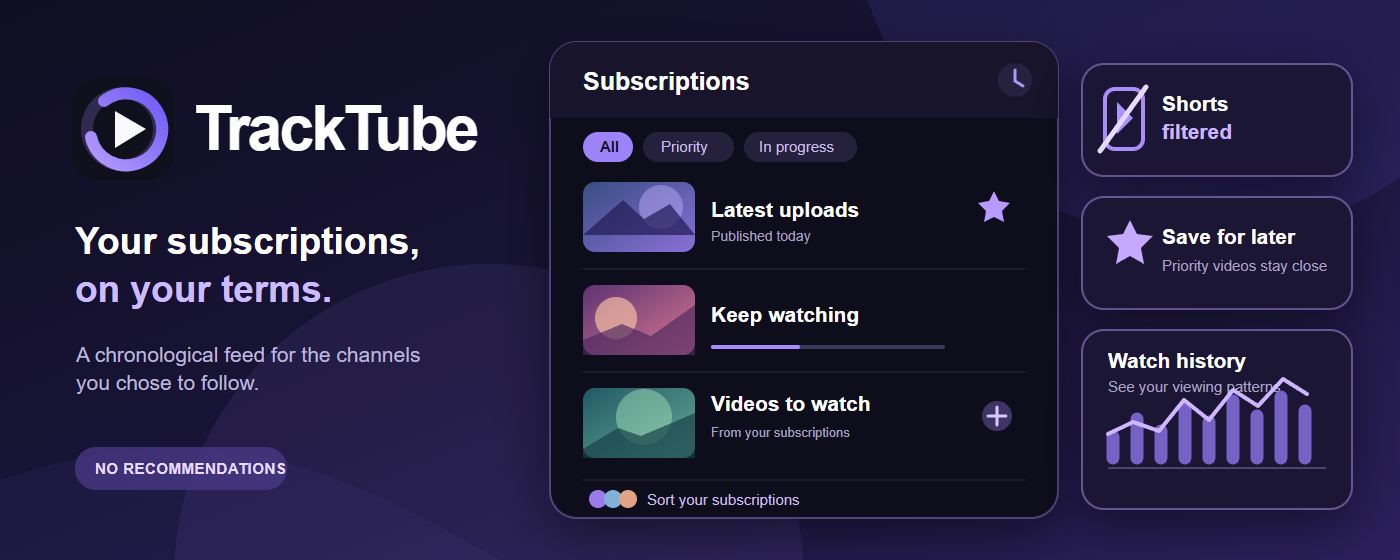
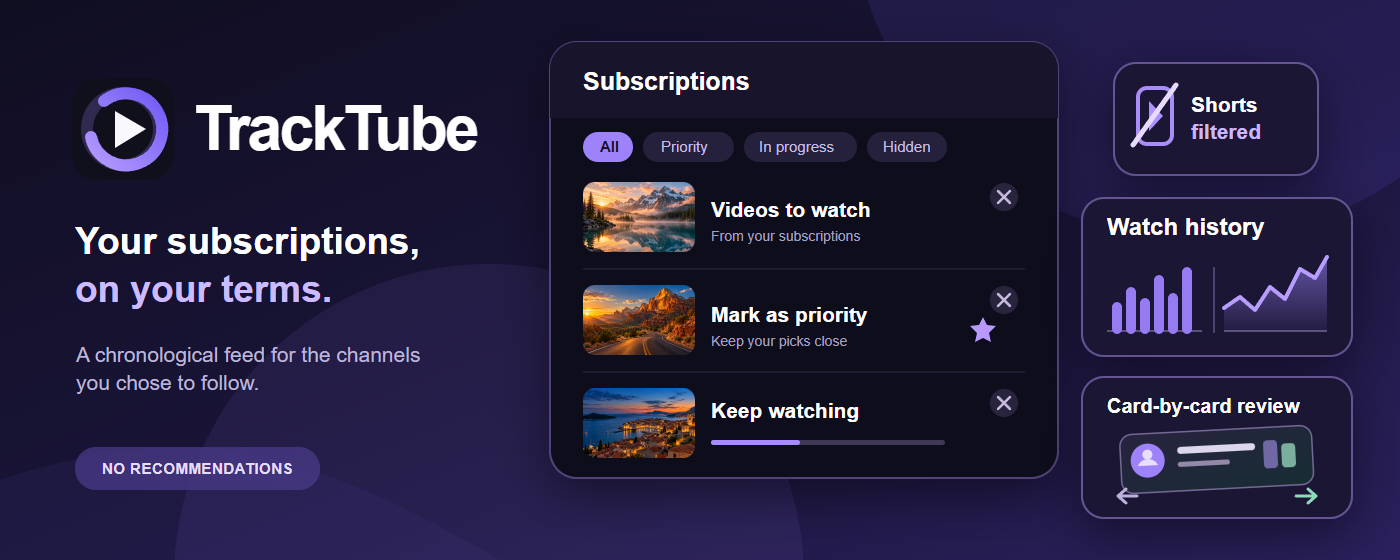
Refine Store marquee and README hero artwork (Codex GPT-6)

diff --git a/README.fr.md b/README.fr.md
@@ -2,6 +2,8 @@
 
 [English](README.md) · **Français**
 
+![TrackTube : fil des abonnements, filtrage des Shorts, historique et tri carte par carte](store-assets/marquee.png)
+
 **Tes abonnements YouTube, dans l'ordre, avec filtrage des Shorts.**
 
 TrackTube remplace la page Abonnements de YouTube par un fil chronologique
@@ -9,8 +11,6 @@ collecté chaîne par chaîne. Il retire les recommandations, filtre les Shorts
 identifiés et permet d'actualiser les publications récentes pour rattraper des
 manques. YouTube peut retarder ou cacher des publications et la classification
 des Shorts ; la couverture n'est donc pas absolue. Tout reste dans ton navigateur.
-
-![Le feed, dans YouTube](screenshots/feed.jpg)
 
 ---
 
@@ -44,6 +44,8 @@ filtré sans que tu l'aies demandé.
 ## Ce que tu obtiens
 
 ### Un feed qui se vide
+
+![Le feed, dans YouTube](screenshots/feed.jpg)
 
 Masque une vidéo et la carte quitte la grille au moment du clic, donc tu peux
 masquer à la chaîne, et un mode sélection le fait par lots. Le masquage de

diff --git a/README.md b/README.md
@@ -2,6 +2,8 @@
 
 **English** · [Français](README.fr.md)
 
+![TrackTube: a subscription feed with Shorts filtering, watch history and card-by-card review](store-assets/marquee.png)
+
 **Your YouTube subscriptions, in order, with Shorts filtering.**
 
 TrackTube replaces YouTube's Subscriptions page with a chronological feed
@@ -9,8 +11,6 @@ collected channel by channel. It removes recommendations, filters identified
 Shorts, and lets you refresh recent uploads to catch gaps. YouTube can delay or
 withhold publications and Shorts classifications, so coverage is not absolute.
 Everything stays in your browser.
-
-![The feed, inside YouTube](screenshots/feed.jpg)
 
 ---
 
@@ -43,6 +43,8 @@ for it.
 ## What you get
 
 ### A feed that empties
+
+![The feed, inside YouTube](screenshots/feed.jpg)
 
 Hide a video and the card leaves the grid as you click, so you can hide in a
 chain, and a selection mode does it by the batch. YouTube's own hide greys the
